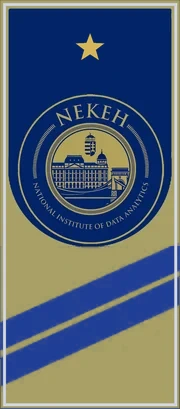
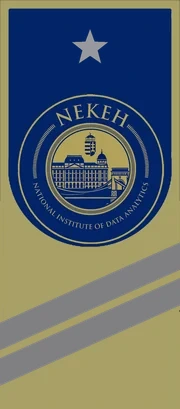
8 fokozatú rendfokozati lánc: csíkos és ezüst/arany csillagos vállapok
Claude-Session: https://claude.ai/code/session_01RyjzkBksq3VffivzF6vyDZ

Changed region(s): [[0.0, 0.0, 1.0, 1.0], [0.4167, 0.0587, 0.5833, 0.176], [0.5556, 0.5868, 0.5833, 0.6161]]

diff --git a/index.html b/index.html
@@ -1168,8 +1168,9 @@ body.shot-guard img,body.shot-guard .mug,body.shot-guard .av.has-photo,body.shot
 body.shot-cover #shotGuard{display:flex}
 body.rec-hide img,body.rec-hide .mug,body.rec-hide .av.has-photo,body.rec-hide .idcard .photo.has-photo{visibility:hidden!important}
 @media print{img,.mug,.org-patches,.unit .patch,.div-card .art,.insig-band{visibility:hidden!important}}
-.ladder{grid-template-columns:repeat(6,minmax(0,1fr))!important;row-gap:34px!important}
-@media (max-width:1100px){.ladder{grid-template-columns:repeat(4,minmax(0,1fr))!important}}
+.ladder{grid-template-columns:repeat(8,minmax(0,1fr))!important;row-gap:34px!important}
+.rung>div:nth-child(2)>b{display:flex;min-height:2.6em;align-items:flex-end;justify-content:center;line-height:1.25}
+@media (max-width:1250px){.ladder{grid-template-columns:repeat(4,minmax(0,1fr))!important}}
 @media (max-width:700px){.ladder{grid-template-columns:repeat(3,minmax(0,1fr))!important}}
 @media (max-width:460px){.ladder{grid-template-columns:repeat(2,minmax(0,1fr))!important}}
 </style>
@@ -1385,7 +1386,7 @@ body.rec-hide img,body.rec-hide .mug,body.rec-hide .av.has-photo,body.rec-hide .
       <section class="sec"><div class="wrap">
         <span class="eyebrow">Rendfokozatok</span>
         <h2 class="sec-title" style="margin-bottom:8px">Rendfokozati lánc</h2>
-        <p style="color:var(--ink-2);max-width:70ch">A rendfokozatot vállap jelzi. Az állományi kar acélszürke csíkot és ezüst csillagot, a felügyelői kar kék csíkot, ezüst szegélyt és kis arany csillagot, a parancsnoki kar bordó csíkot, arany szegélyt és nagy arany csillagot visel. A Hatóság vezetésének vállapja fehér csíkos, dupla aranyszegélyes. Előléptetésről a Főbiztos dönt.</p>
+        <p style="color:var(--ink-2);max-width:70ch">A rendfokozatot vállap jelzi. Az Újonc vállapja üres, az Ügynöké két szürke csíkos. A felügyelői fokozatok két szürke csík mellett egy–három szürke, a parancsnoki fokozatok három szürke csík mellett egy–három arany csillagot viselnek. Előléptetésről a Főbiztos dönt.</p>
         <div class="ladder-line"></div>
         <div class="ladder" id="ladder"></div>
       </div></section>
@@ -1811,17 +1812,13 @@ const ICE_SERVERS = [{urls:['stun:stun.l.google.com:19302','stun:stun1.l.google.
 
 /* ================= constants ================= */
 const RANKS = [
-  {id:'r0', name:'Újonc', level:10, tier:0, board:null, desc:'Próbaidős állomány. Felvétel után minden új tag ezzel kezd.'},
-  {id:'r1', name:'Ügynök', level:15, tier:1, board:'img/rang-r1.webp', desc:'Teljes jogú műveleti állomány, önálló szolgálatellátás.'},
-  {id:'r1b', name:'Törzsügynök', level:18, tier:1, board:'img/rang-r1b.webp', desc:'Tapasztalt ügynök, a járőrpárok vezetője és az újoncok mentora.'},
-  {id:'r1c', name:'Vezető ügynök', level:22, tier:1, board:'img/rang-r1c.webp', desc:'A szolgálati csoport rangidős ügynöke; a felügyelő távollétében irányítja a csoportot.'},
-  {id:'r2', name:'Felügyelő', level:30, tier:2, board:'img/rang-r2.webp', desc:'Szolgálatparancsnoki feladatok, kisebb csoportok vezetése. Körözést rendelhet el.'},
-  {id:'r2b', name:'Főfelügyelő', level:33, tier:2, board:'img/rang-r2b.webp', desc:'Több szolgálati csoport felügyelete, bevetések helyszíni irányítása.'},
+  {id:'r0', name:'Újonc', level:10, tier:0, board:'img/rang-r0.webp', desc:'Próbaidős állomány. Felvétel után minden új tag ezzel kezd.'},
+  {id:'r1', name:'Ügynök', level:20, tier:1, board:'img/rang-r1.webp', desc:'Teljes jogú műveleti állomány, önálló szolgálatellátás.'},
+  {id:'r2', name:'Felügyelő', level:30, tier:2, board:'img/rang-r2.webp', desc:'Szolgálati csoport vezetése a helyszínen. Körözést rendelhet el.'},
+  {id:'r2b', name:'Főfelügyelő', level:35, tier:2, board:'img/rang-r2b.webp', desc:'Több szolgálati csoport felügyelete, bevetések helyszíni irányítása.'},
   {id:'r3', name:'Kiemelt főfelügyelő', level:40, tier:2, board:'img/rang-r3.webp', desc:'Műveletek tervezése és irányítása, kiképzések vezetése.'},
-  {id:'r4a', name:'Alparancsnok', level:45, tier:3, board:'img/rang-r4a.webp', desc:'Az egységparancsnok helyettese, műveleti szinten irányít.'},
   {id:'r4', name:'Parancsnok', level:50, tier:3, board:'img/rang-r4.webp', desc:'Egység vagy főosztály vezetője, a Vészhelyzeti Tanács tagja.'},
-  {id:'r4b', name:'Főparancsnok', level:53, tier:3, board:'img/rang-r4b.webp', desc:'Több egység összehangolt irányítása, a parancsnoki kar vezetője.'},
-  {id:'r5a', name:'Főbiztos-helyettes', level:57, tier:4, board:'img/rang-r5a.webp', desc:'A Főbiztos általános helyettese; távollétében teljes jogkörrel helyettesíti.'},
+  {id:'r4b', name:'Főparancsnok', level:55, tier:3, board:'img/rang-r4b.webp', desc:'Több egység összehangolt irányítása, a Főbiztos helyettese.'},
   {id:'r5', name:'Főbiztos', level:60, tier:4, board:'img/rang-r5.webp', desc:'A Hatóság vezetője; vészhelyzetben az ország második legmagasabb rangú tisztségviselője.'},
 ];
 const RANK = Object.fromEntries(RANKS.map(r => [r.id, r]));
@@ -2130,7 +2127,9 @@ const isOwnerUid = uid => !!uid && uid === S.ownerUid;
 function rankOf(uid){
   if (!uid) return null;
   const r = S.roles[uid];
+  const LEG = {r1b:'r1', r1c:'r1', r4a:'r4', r5a:'r4b'};
   if (r && RANK[r.rank]) return RANK[r.rank];
+  if (r && RANK[LEG[r.rank]]) return RANK[LEG[r.rank]];
   if (isOwnerUid(uid)) return RANK.r5;
   return null;
 }
